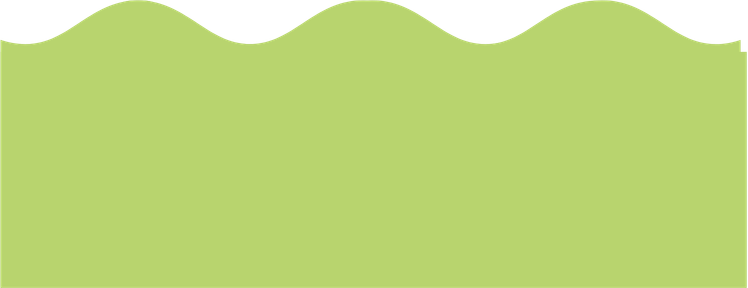
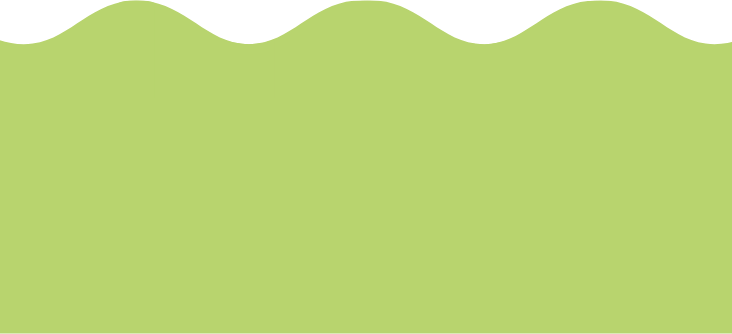
una pequeña corrección
El titulo de Cooperadora del logo quedaba centrado y no alineado a la izquierda como el de instituto :)

diff --git a/footer.css b/footer.css
@@ -83,6 +83,7 @@
     font-size: clamp(9px, 1.1vw, 17px);
     line-height: 1.15;
     white-space: normal; /* Permite adaptarse en pantallas intermedias */
+    text-align: left;
 }
 
 .Instituto h2 {
@@ -98,6 +99,7 @@
     display: flex;
     flex-direction: column;
     justify-content: center;
+    align-items: flex-start;
 }
 
 /* Información de contacto */
@@ -200,7 +202,7 @@
   .footer {
         background-image: url("fondo/footer - celular.png");
         background-repeat: no-repeat;
-        background-size: cover !important; /* Evita cortes extraños y cubre todo el ancho de forma fluida */
+        background-size: 100% auto !important; /* Evita cortes extraños y cubre todo el ancho de forma fluida */
         background-position: center bottom;
         width: 100%;
         min-height: 220px; /* Más altura para que las ondas respiren y se vean sueltas */
